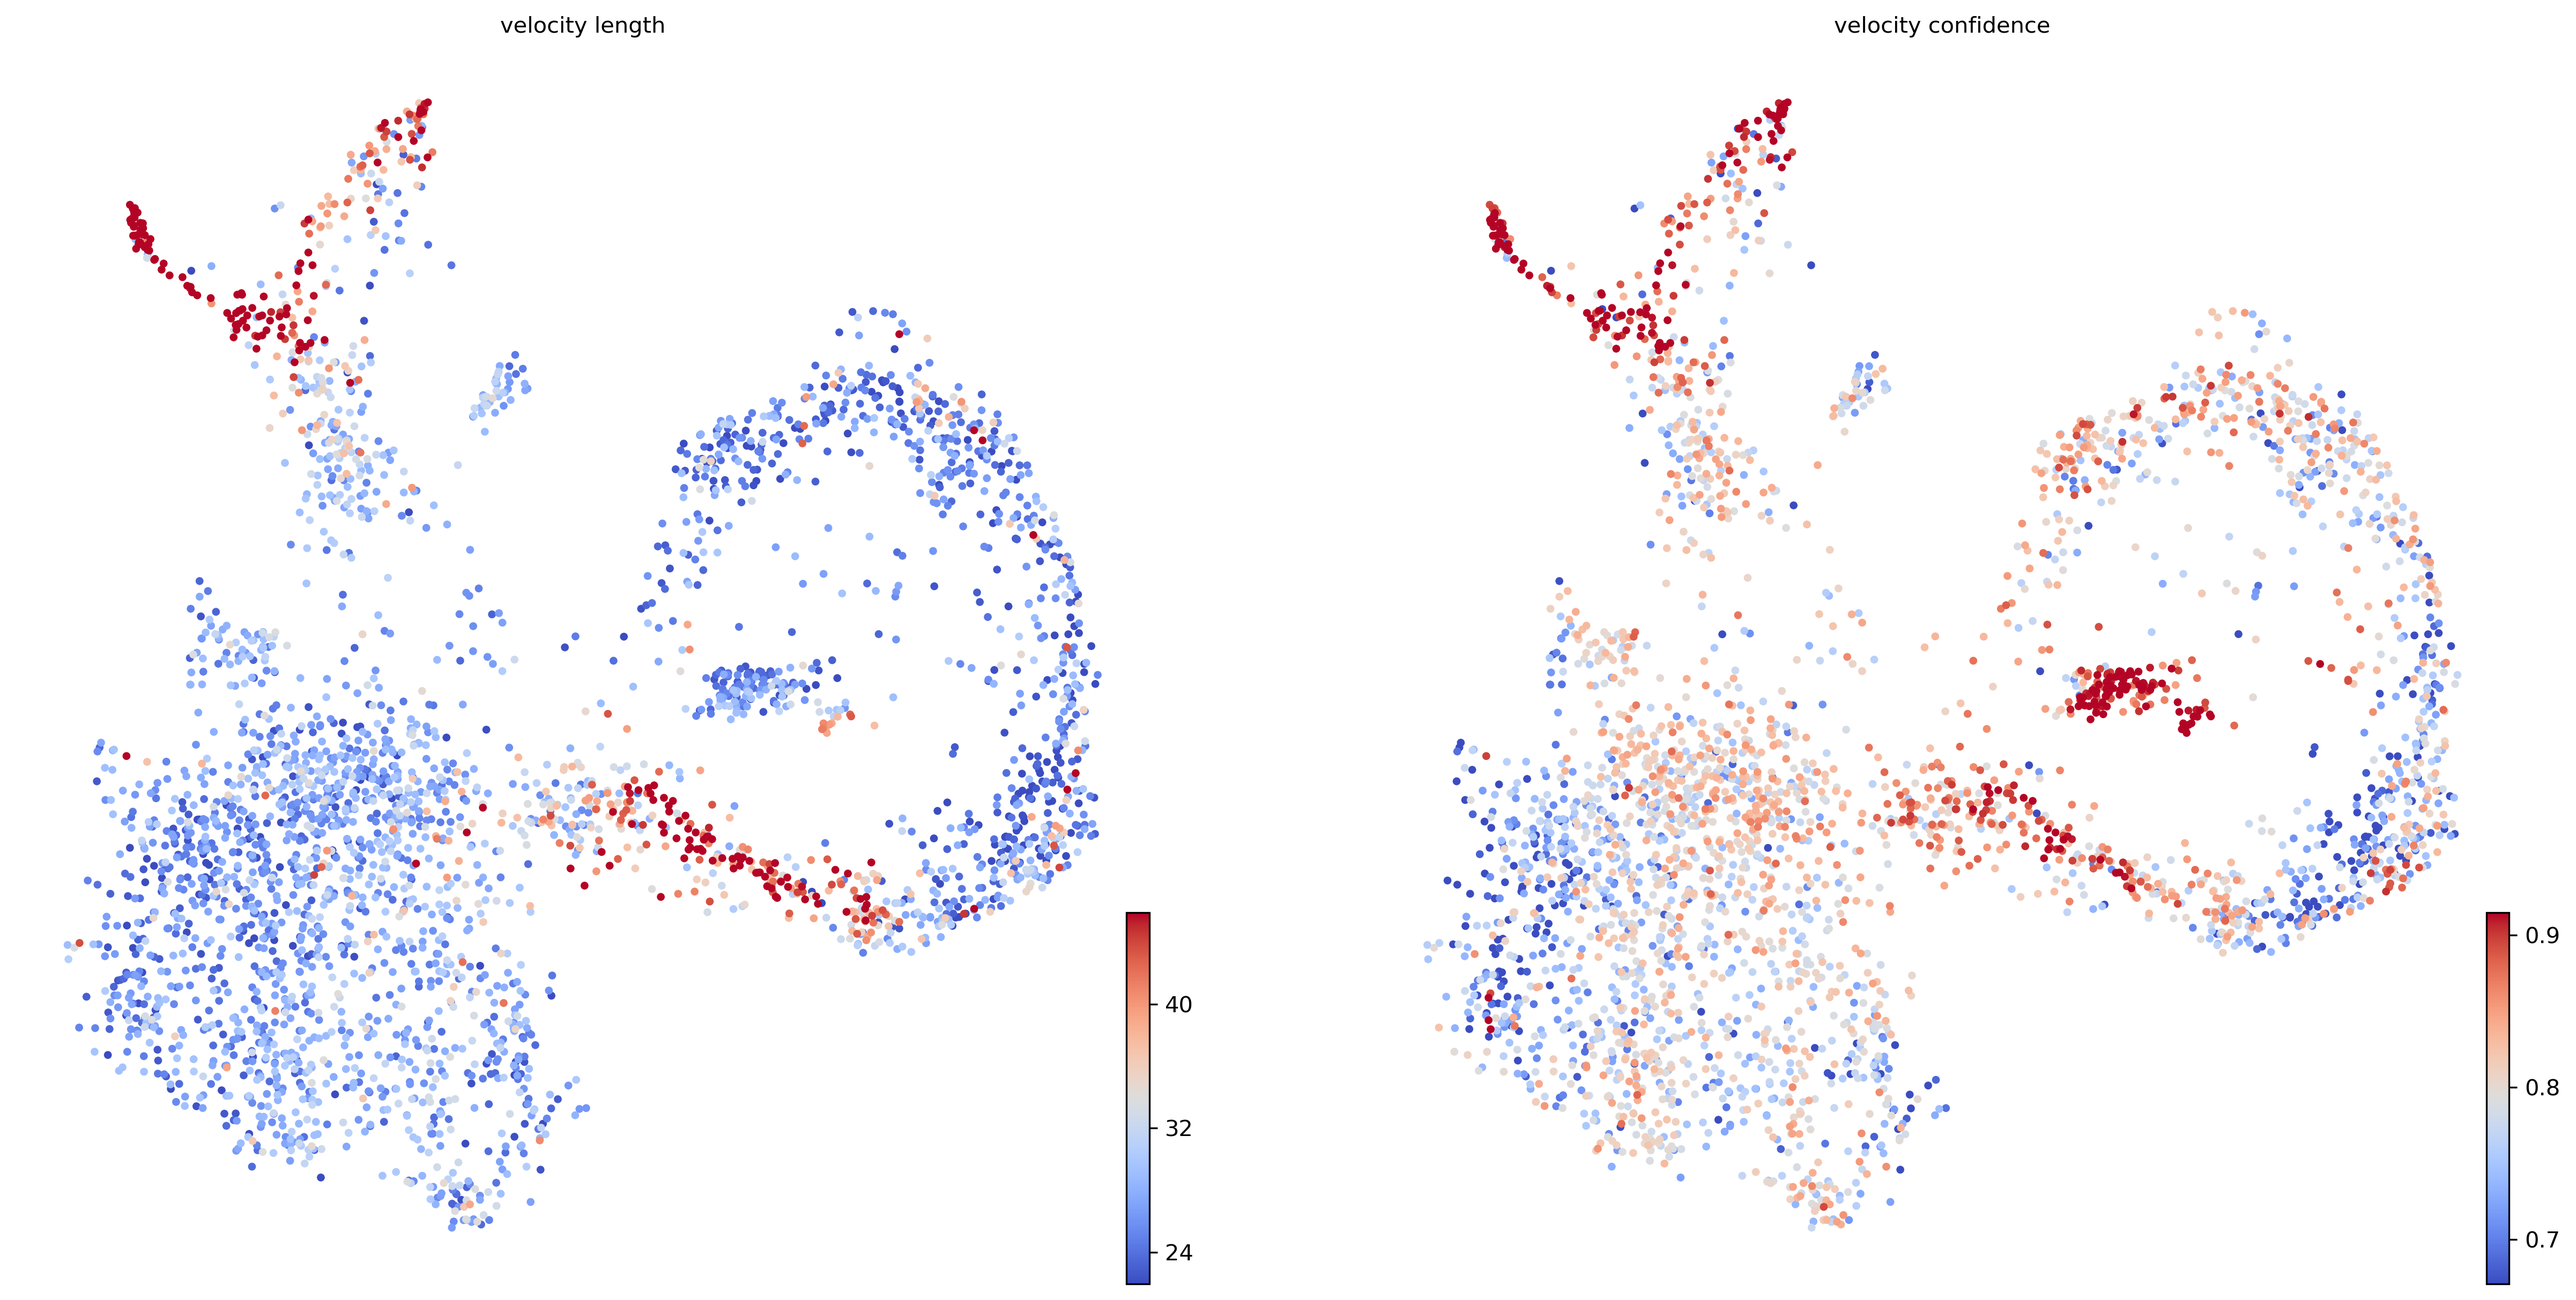
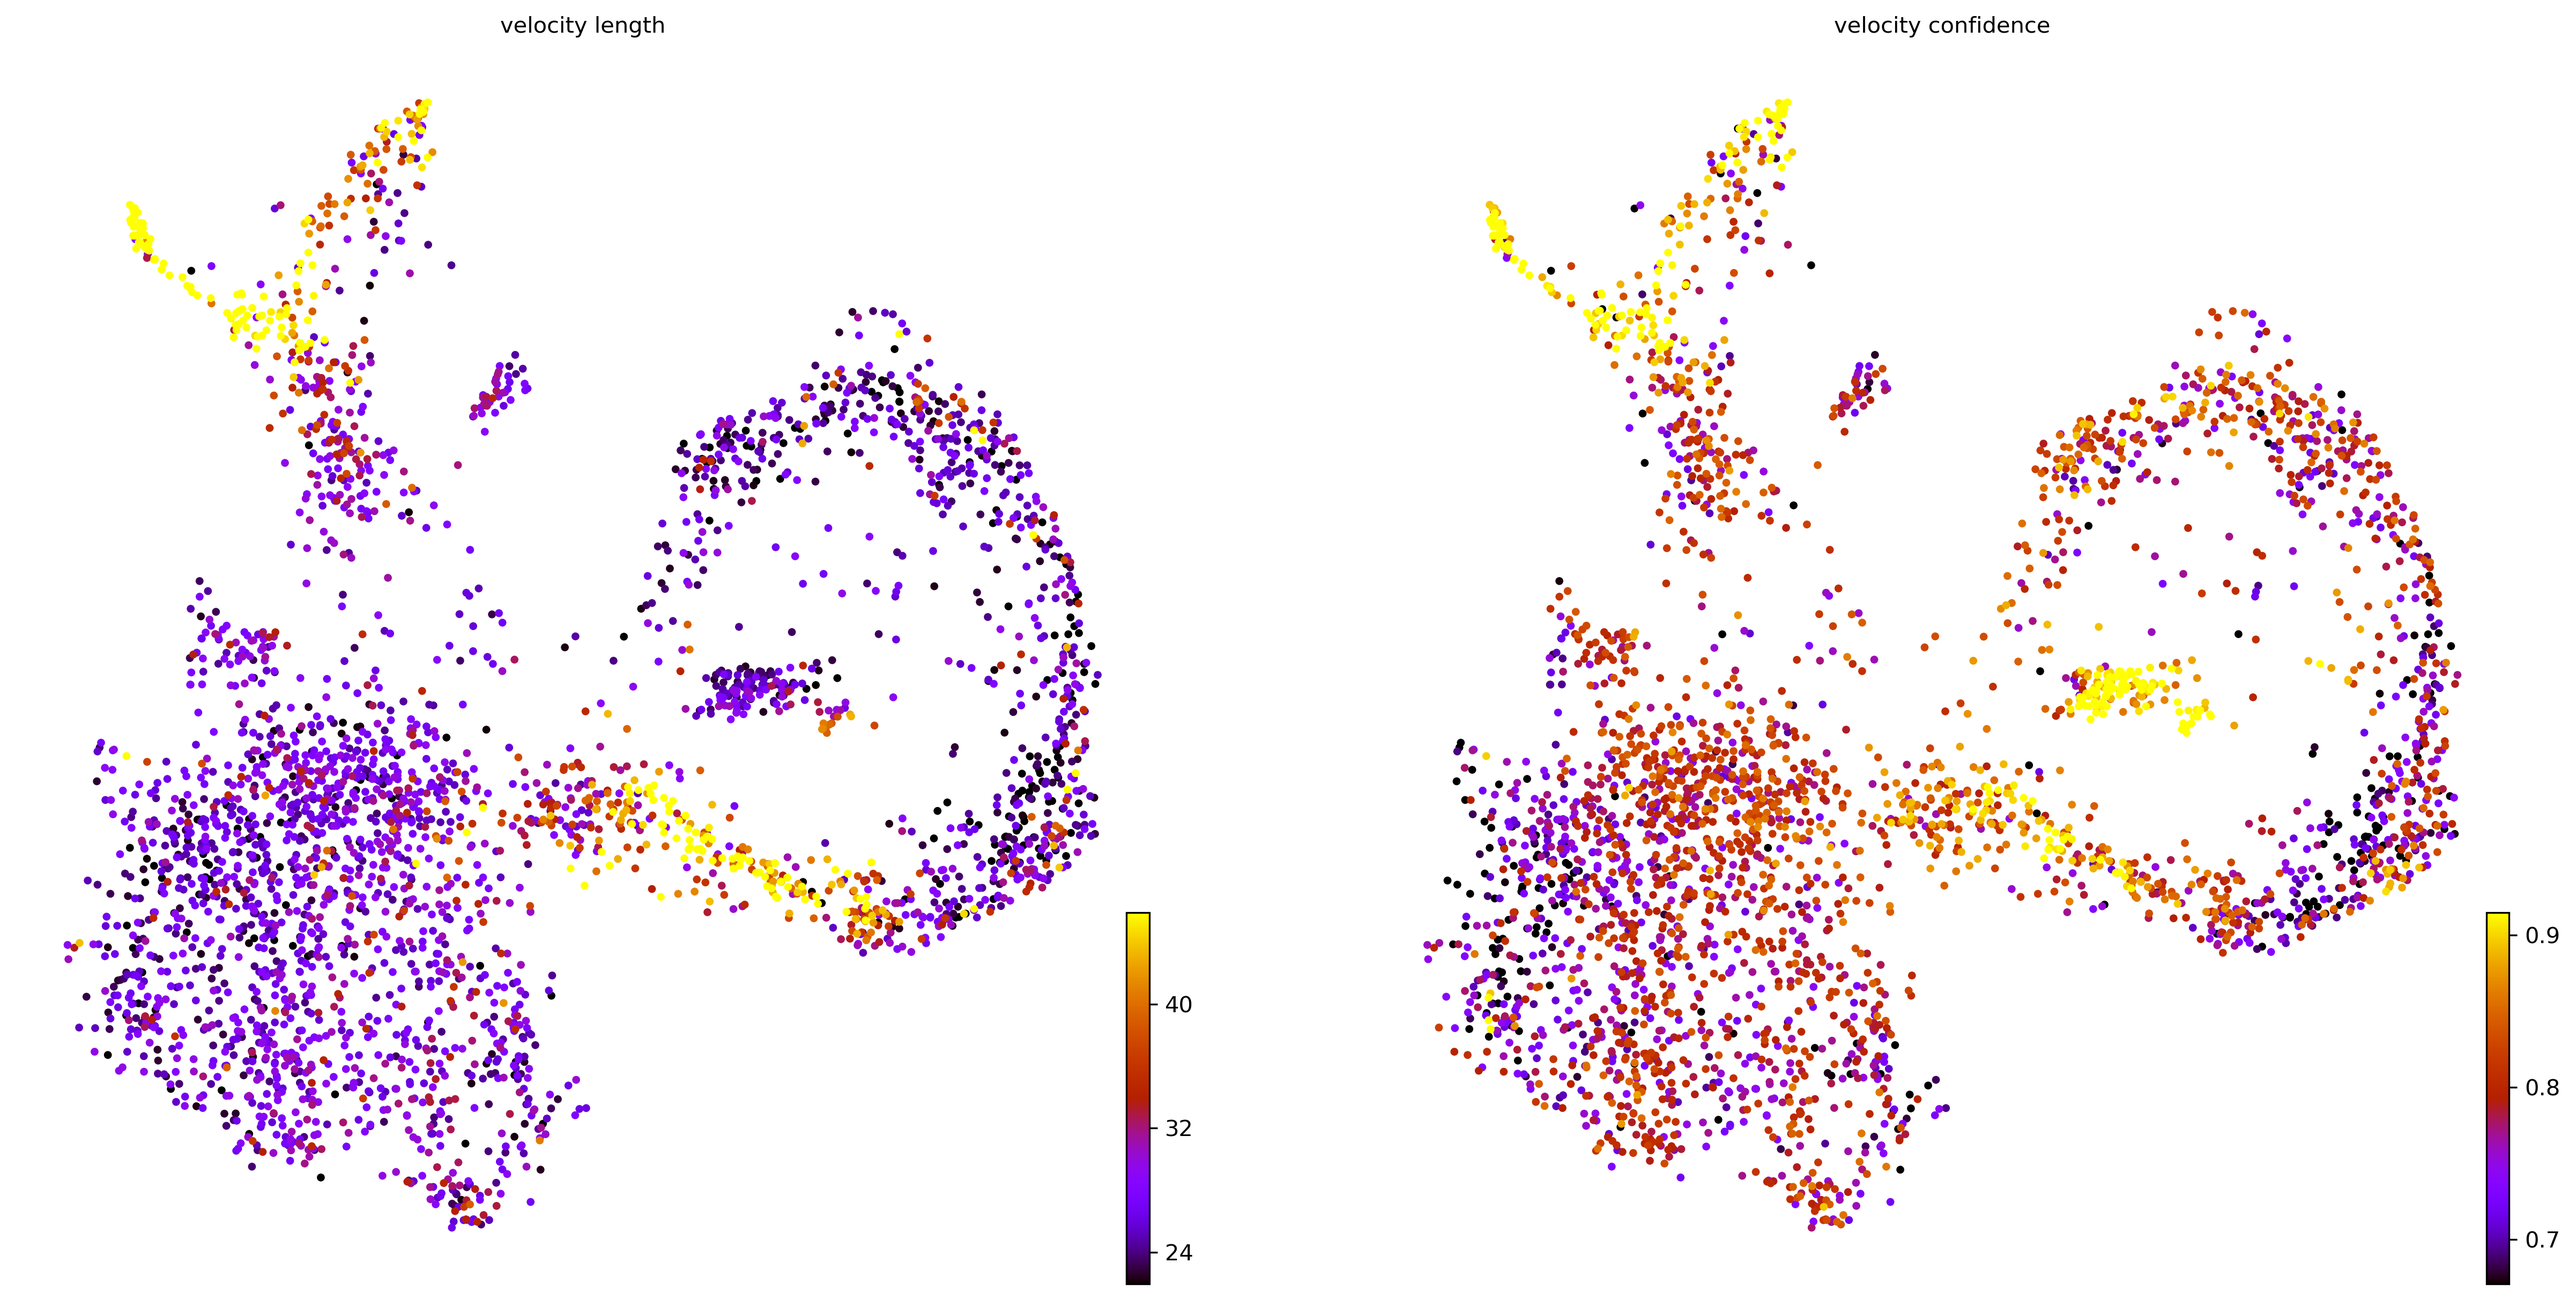
updating color scheme of velocity and coherence

diff --git a/scripts/scvelo.py b/scripts/scvelo.py
@@ -88,7 +88,7 @@ metrics = ['velocity_length', 'velocity_confidence']
 for key,value in samples.items():
     scv.tl.velocity_confidence(value)
     scv.pl.scatter(
-      value, c = metrics, cmap = 'coolwarm', perc=[5, 95],
+      value, c = metrics, cmap = 'gnuplot', perc=[5, 95],
       size = 50, show = False, dpi = 300, figsize = (10, 10),
       save = '%s.png' % key
     )
